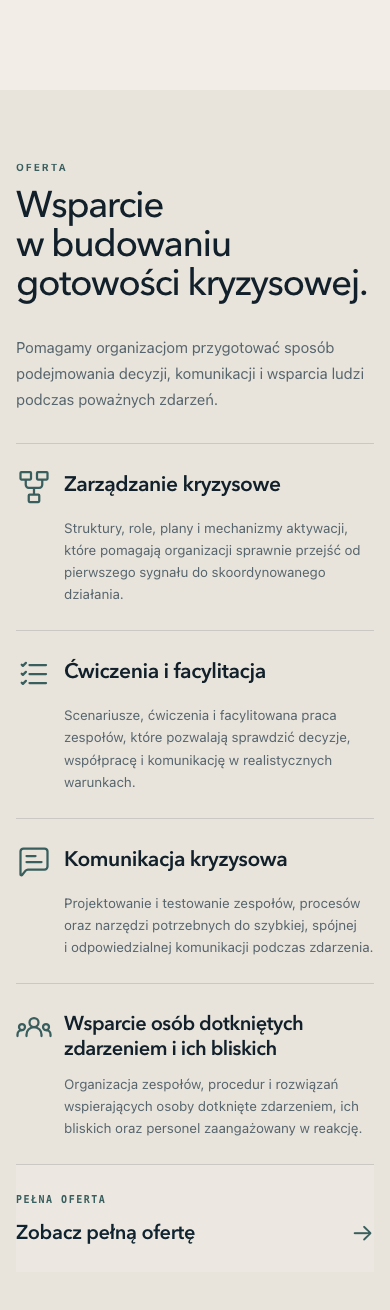
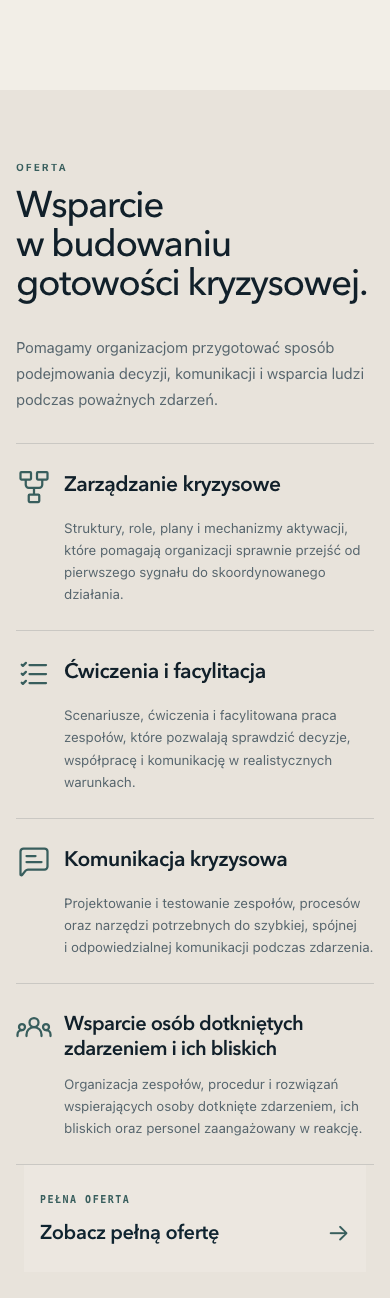
style: refine homepage offer CTA spacing

diff --git a/src/styles/global.css b/src/styles/global.css
@@ -742,7 +742,7 @@ summary:focus-visible {
 /* Homepage — services */
 
 .services-section {
-  padding: 95px 0 42px;
+  padding: 95px 0 30px;
   background: var(--paper-2);
 }
 
@@ -810,15 +810,20 @@ summary:focus-visible {
 
 .services-cta-rail {
   display: grid;
-  grid-template-columns: 145px minmax(0, 1fr) auto;
+  grid-template-areas:
+    "label label label"
+    ". text arrow";
+  grid-template-columns: 12px minmax(0, 1fr) auto;
   align-items: center;
-  gap: 28px;
-  padding: 30px 0;
+  gap: 8px 12px;
+  margin-inline: 24px;
+  padding: 20px 18px;
   background: color-mix(in srgb, var(--paper-2) 60%, var(--paper) 40%);
   transition: background-color 180ms ease;
 }
 
 .services-cta-label {
+  grid-area: label;
   color: var(--teal-deep);
   font-family: var(--mono);
   font-size: var(--type-utility-sm);
@@ -830,6 +835,7 @@ summary:focus-visible {
 }
 
 .services-cta-text {
+  grid-area: text;
   color: var(--ink-2);
   font-family: var(--display);
   font-size: 22px;
@@ -840,6 +846,7 @@ summary:focus-visible {
 }
 
 .services-cta-arrow {
+  grid-area: arrow;
   color: var(--teal-deep);
   font-size: 25px;
   line-height: 1;
@@ -3291,24 +3298,17 @@ summary:focus-visible {
       "text arrow";
     grid-template-columns: minmax(0, 1fr) auto;
     gap: 13px 18px;
-    padding: 27px 0;
+    margin-inline: 8px;
+    padding: 27px 16px;
   }
 
   .services-section {
-    padding-bottom: 38px;
-  }
-
-  .services-cta-label {
-    grid-area: label;
+    padding-bottom: 26px;
   }
 
   .services-cta-text {
     grid-area: text;
     font-size: 20px;
-  }
-
-  .services-cta-arrow {
-    grid-area: arrow;
   }
 
   .readiness-section {
